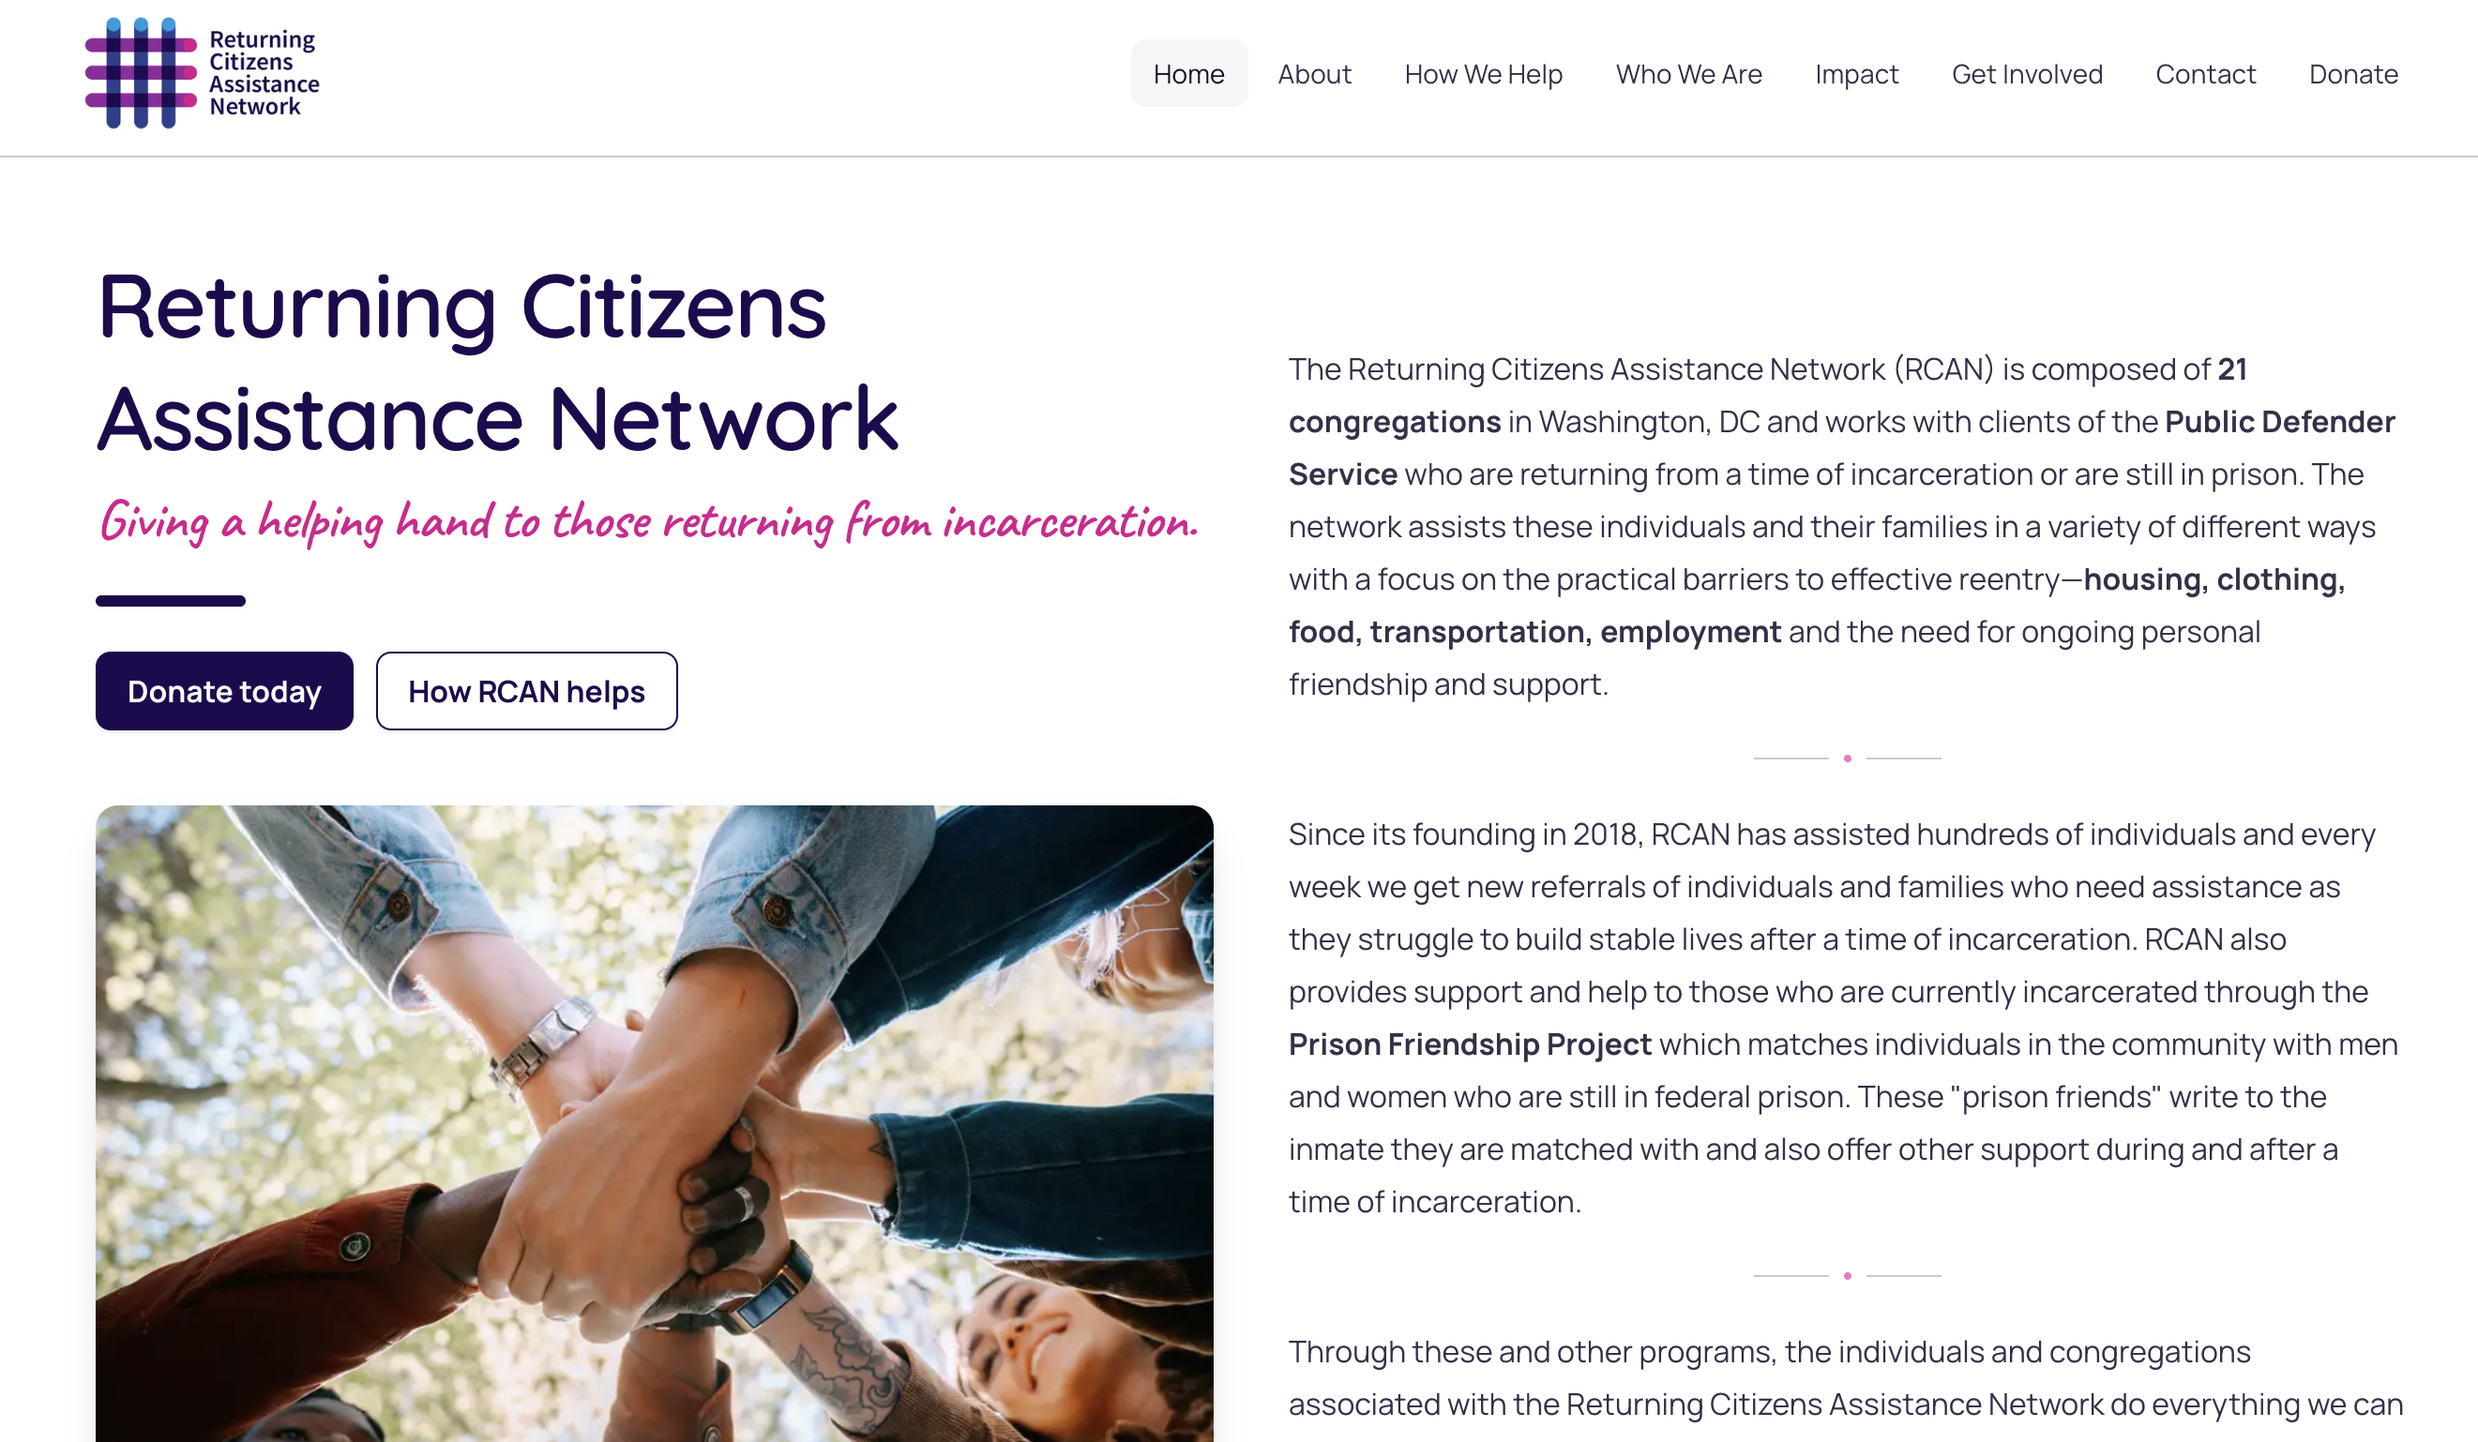
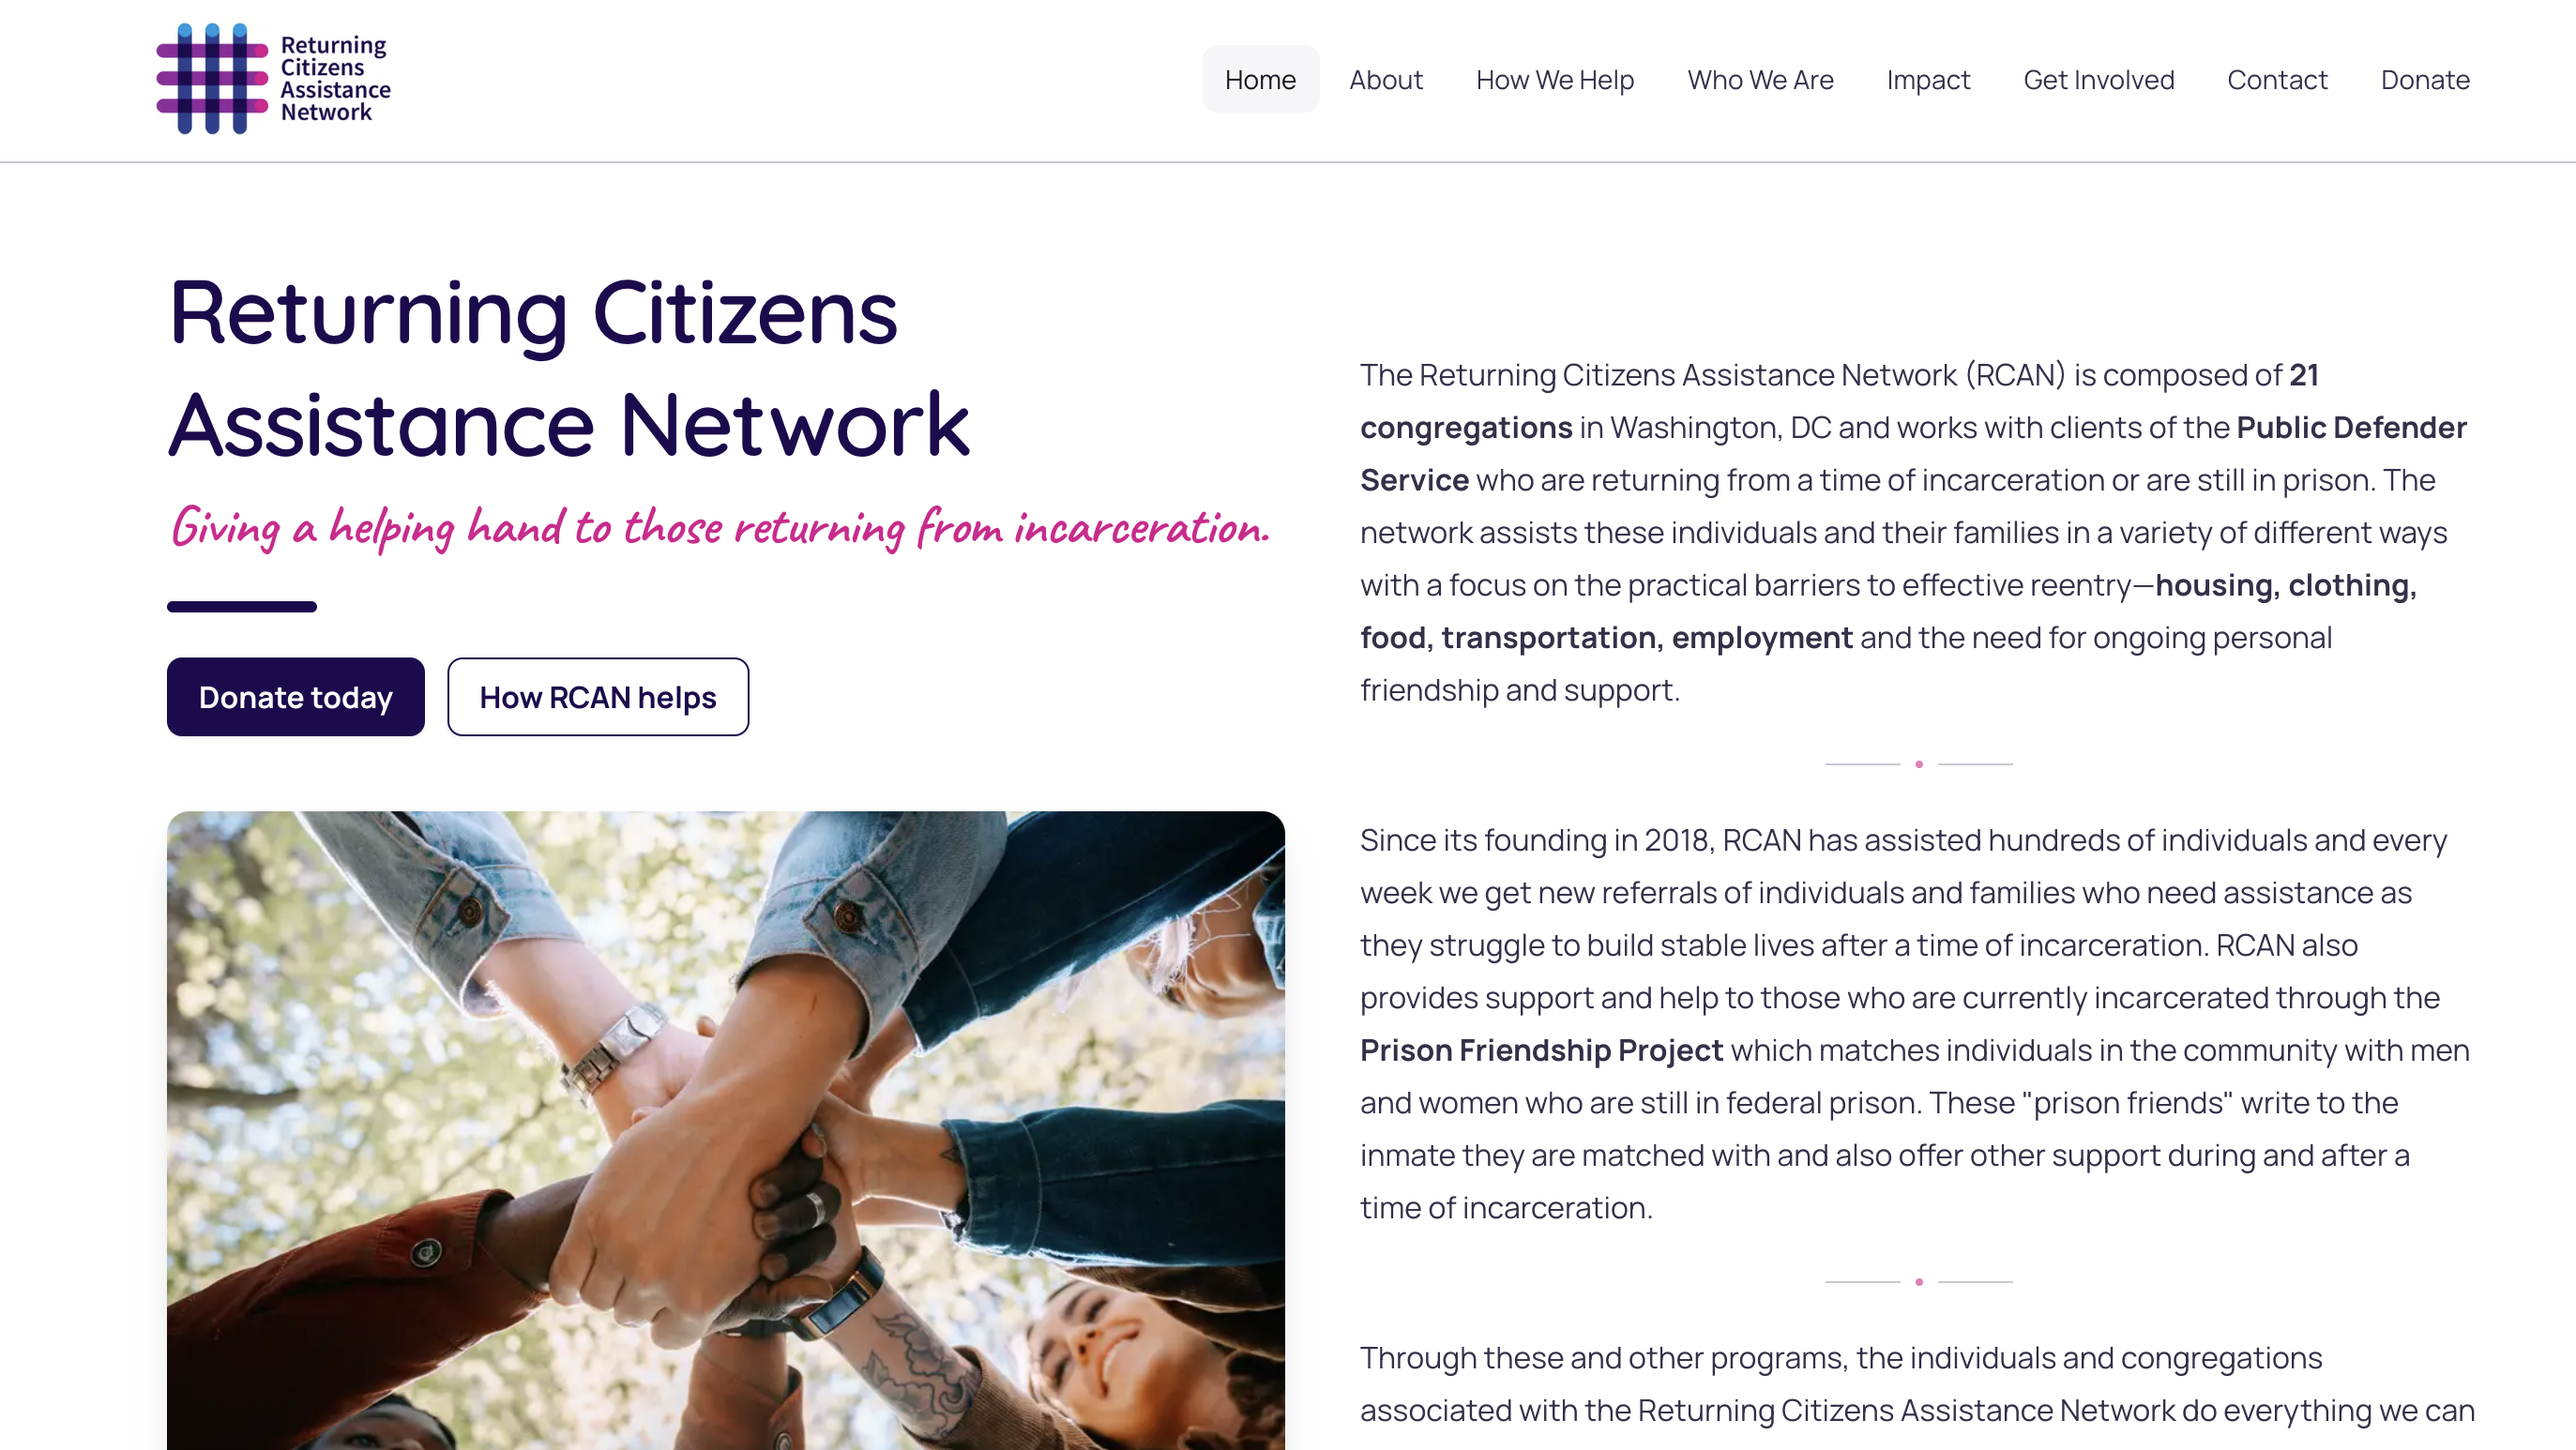
Add Glorious Health Ministries and Carol I. Zacheiss to work section, reorder and reword project cards
- Add two new live client sites: Glorious Health Ministries and Carol I. Zacheiss, Attorney at Law
- Rename Magic Festival status from "Template — Available" to "Design Available"
- Reorder work cards so Astrid Beauty sits next to Ghostbusters and RCAN sits next to JC Auto Body

diff --git a/src/content/home-data.ts b/src/content/home-data.ts
@@ -18,7 +18,7 @@ export interface ServiceItem {
 
 export interface WorkItem {
   title: string;
-  status: "Live Site" | "In Progress" | "Template — Available";
+  status: "Live Site" | "In Progress" | "Design Available";
   description: string;
   demo?: string;
   image: string;
@@ -175,14 +175,15 @@ export const work: WorkItem[] = [
       "Screenshot of the Siren Song website showing curated product recommendations and local resources for sustainable living",
   },
   {
-    title: "RCAN",
+    title: "Astrid Beauty Hair Salon",
     status: "Live Site",
     description:
-      "A nonprofit website for the Returning Citizens Assistance Network, a Washington, DC group supporting people re-entering society after incarceration. Built to make the mission clear, guide visitors toward donations and volunteering, and give partner congregations a stronger public home.",
-    demo: "https://www.rcandc.org/",
-    image: "/images/rcan.png",
+      "A custom website for a working hair salon, redesigned to help new and returning clients understand services, review pricing guidance, and book with less friction. Built with clean, accessible structure so the business feels polished without depending on a template platform.",
+    demo: "https://www.byastridbeautysalon.com/",
+    image: "/images/astrid.png",
+    imageLight: "/images/astrid-light.png",
     imageAlt:
-      "Screenshot of the RCAN website showing the homepage hero and community impact information",
+      "Screenshot of the Astrid Beauty Hair Salon website showing service listings and booking information",
   },
   {
     title: "Ghostbusters Virginia",
@@ -195,15 +196,14 @@ export const work: WorkItem[] = [
       "Screenshot of the Ghostbusters Virginia community website showing event listings and team information",
   },
   {
-    title: "Astrid Beauty Hair Salon",
+    title: "RCAN",
     status: "Live Site",
     description:
-      "A custom website for a working hair salon, redesigned to help new and returning clients understand services, review pricing guidance, and book with less friction. Built with clean, accessible structure so the business feels polished without depending on a template platform.",
-    demo: "https://www.byastridbeautysalon.com/",
-    image: "/images/astrid.png",
-    imageLight: "/images/astrid-light.png",
+      "A nonprofit website for the Returning Citizens Assistance Network, a Washington, DC group supporting people re-entering society after incarceration. Built to make the mission clear, guide visitors toward donations and volunteering, and give partner congregations a stronger public home.",
+    demo: "https://www.rcandc.org/",
+    image: "/images/rcan.png",
     imageAlt:
-      "Screenshot of the Astrid Beauty Hair Salon website showing service listings and booking information",
+      "Screenshot of the RCAN website showing the homepage hero and community impact information",
   },
   {
     title: "JC Auto Body",
@@ -216,8 +216,28 @@ export const work: WorkItem[] = [
       "Screenshot of the JC Auto Body website showing service information and contact details",
   },
   {
+    title: "Glorious Health Ministries",
+    status: "Live Site",
+    description:
+      "A faith-based marketing site for Glorious Health Ministries, a healing and support ministry for widows. The site introduces the ministry's three pillars - Gatherings, Connection, and Sisterhood - shares the founder's story, and gives widows, churches, and funeral homes a clear way to learn more and get in touch.",
+    demo: "https://www.glorioushealthministries.com/",
+    image: "/images/glorioushealth.png",
+    imageAlt:
+      "Screenshot of the Glorious Health Ministries website showing the hero section with the ministry's dove logo and its three pillars: Gatherings, Connection, and Sisterhood",
+  },
+  {
+    title: "Carol I. Zacheiss, Attorney at Law",
+    status: "Live Site",
+    description:
+      "A marketing site for Carol I. Zacheiss, a criminal defense attorney serving Hopewell, Prince George, and Petersburg, Virginia. Built as a standalone custom site with clear paths to requesting a consultation and reviewing practice areas.",
+    demo: "https://tricitiescriminallaw.com/",
+    image: "/images/tricities.png",
+    imageAlt:
+      "Screenshot of the Carol I. Zacheiss, Attorney at Law website showing the hero section with the statue of Lady Justice and the firm's areas of experience",
+  },
+  {
     title: "Magic Festival",
-    status: "Template — Available",
+    status: "Design Available",
     description:
       "A ready-to-launch template for event sites - festivals, races, conventions - with an animated hero, live schedule, photo gallery, and donation flow already built in. Fully themeable via design tokens, so it re-skins fast for a real event. Currently unclaimed - if this fits what you're planning, it's available.",
     demo: "https://magic-festival.vercel.app/",

diff --git a/src/styles/global.css b/src/styles/global.css
@@ -1092,7 +1092,7 @@ textarea:disabled {
   color: var(--color-neutral-800);
 }
 
-.work-card__status--template-—-available {
+.work-card__status--design-available {
   background-color: color-mix(
     in srgb,
     var(--color-primary-surface) 78%,
